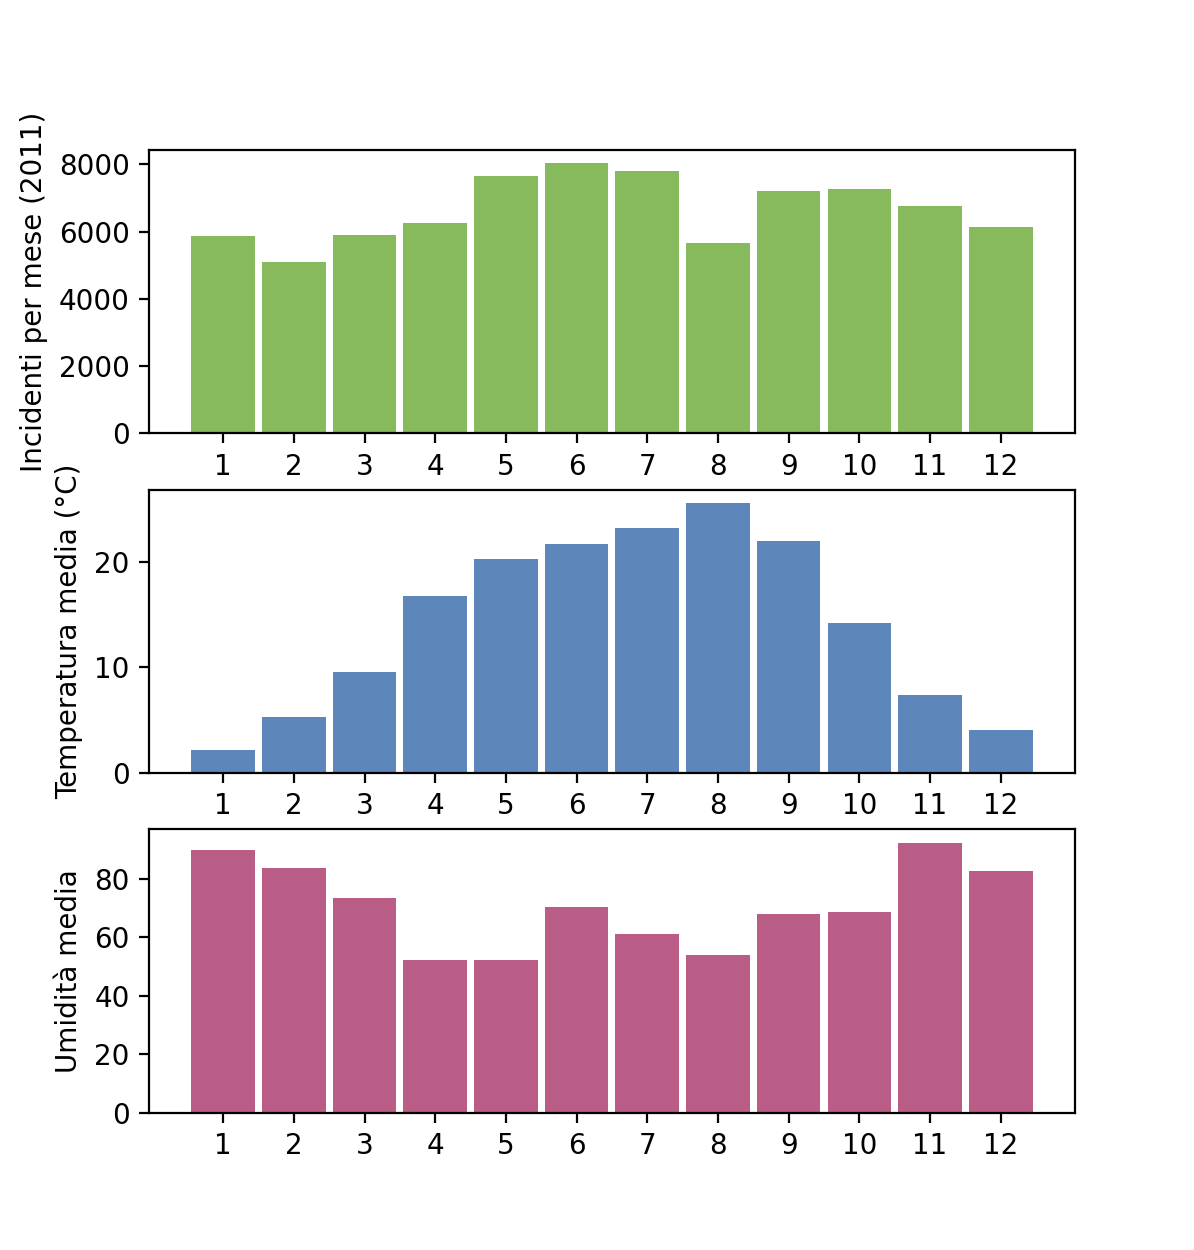
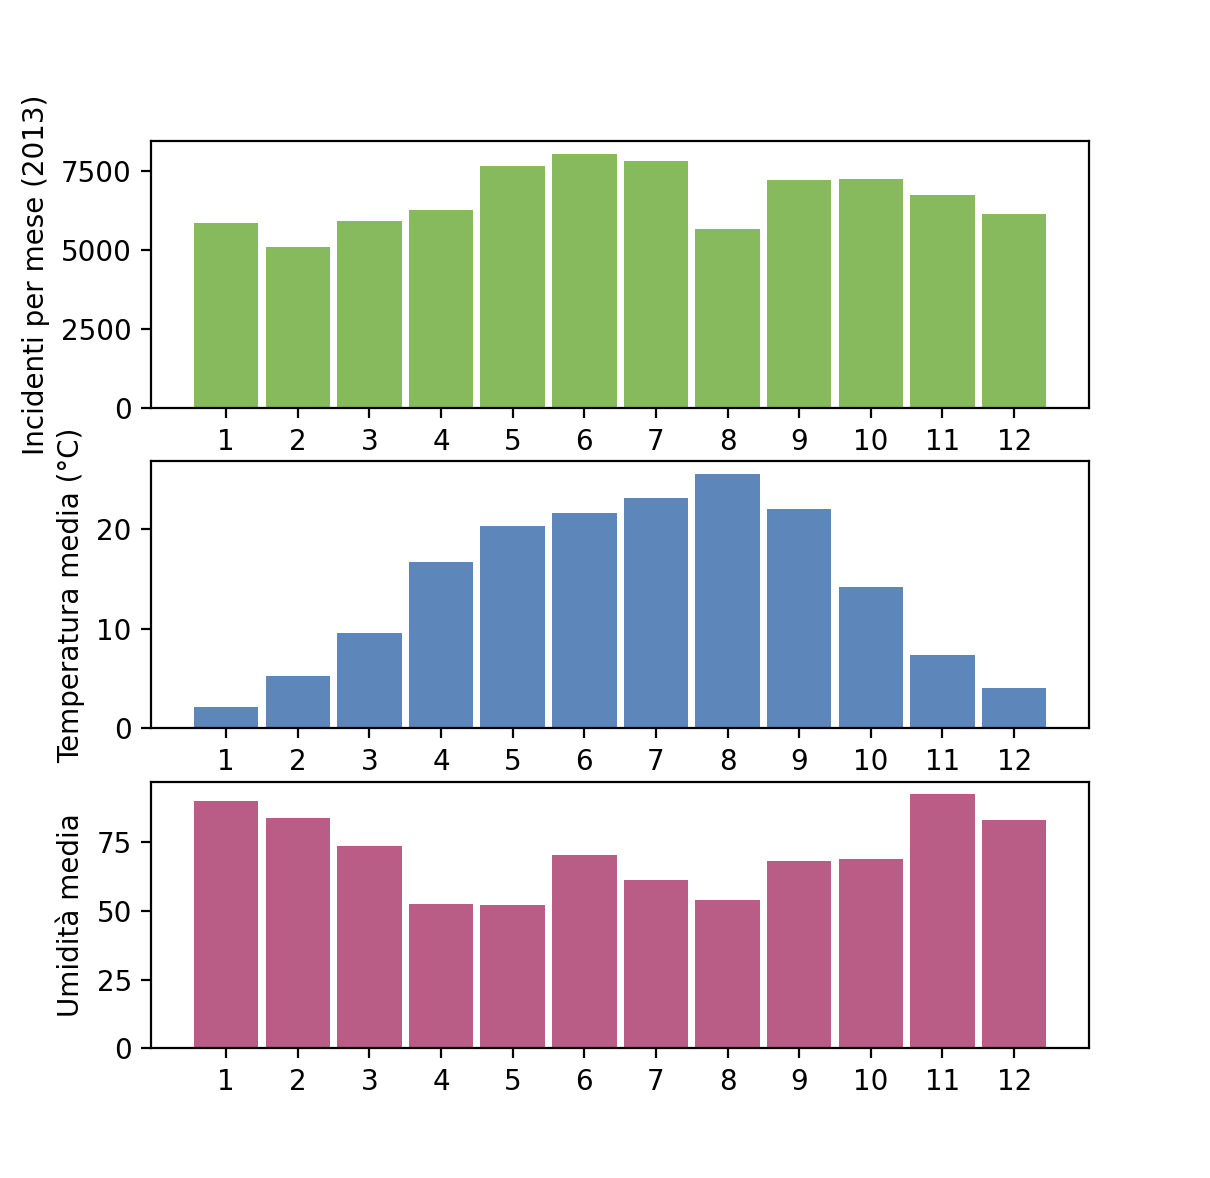
corretto label e aggiunti todo

diff --git a/tesi/Tesi.tex b/tesi/Tesi.tex
@@ -1684,8 +1684,10 @@ dei veicoli.
     \label{fig:pedoni-no-rett}
 \end{figure}
 
-Se si escludono gli outlier
-\footnote{In un campione di osservazioni, un outlier è un valore anomalo, 
+\todo{specificare procedimento}
+\todo{provare, invece di eliminare outlier, a usare scala logaritmica per x}
+
+Se si escludono gli outlier\footnote{In un campione di osservazioni, un outlier è un valore anomalo, 
 particolarmente distante dagli altri dati disponibili \cite{PROB.E.STATISTICA:1}}
 come in figura \ref{fig:pedoni-no-rett}, il grafo ottenuto è più bilanciato, 
 con \textit{incroci} e \textit{intersezioni non segnalate} che spiccano come tipi di strada con 
@@ -2228,7 +2230,7 @@ per non parlare del fatto che entrambe le strade passano attraverso un alto nume
     \includegraphics[width=0.5\linewidth]{../src/meteo/temp_incidenti_2013.png}
     \caption{Incidenti, temperature e umidità medi per mese nel 2011 e nel 2013}
     \label{fig:incidenti-temp}
-\end{figure}\todo{errore label 2011 invece di 2013}
+\end{figure}
 
 La figura \ref{fig:incidenti-temp} mostra, partendo dall'alto, il numero di incidenti 
 avvenuti per mese, la temperatura media per mese, e infine l'umidità media.
@@ -2270,7 +2272,9 @@ Ciò non significa che, per esempio nel 2011, sia stata l'alta temperatura a pro
 tutti gli incidenti, anzi, è molto più probabile che il fattore con maggiore 
 influenza sia proprio il mese, e non la temperatura o l'umidità.
 In altre parole, la correlazione tra due fenomeni non ne implica la causa.
-\todo{atrent: esatto, va esplicitato bene che è un'analisi che lascia il tempo che trova}
+
+\todo{la velocità del vento è una conclusione che merita approfondimento (avendo più dati)}
+\todo{esempio di campioni con correlazione alta ma completamente scollegati}
 
 %\addcontentsline{toc}{chapter}{Bibliografia}
 \printbibliography

diff --git a/src/meteo/temp_incidenti.py b/src/meteo/temp_incidenti.py
@@ -35,7 +35,7 @@ meteo_per_mese = meteo_per_mese.sort_index()
 
 ax = plt.subplot(311)
 ax.bar(inc.index, inc, color='#86ba5d', width=0.9)
-plt.ylabel("Incidenti per mese (2011)")
+plt.ylabel("Incidenti per mese (2013)")
 plt.xticks(range(1,13))
 
 plt.subplot(312)
